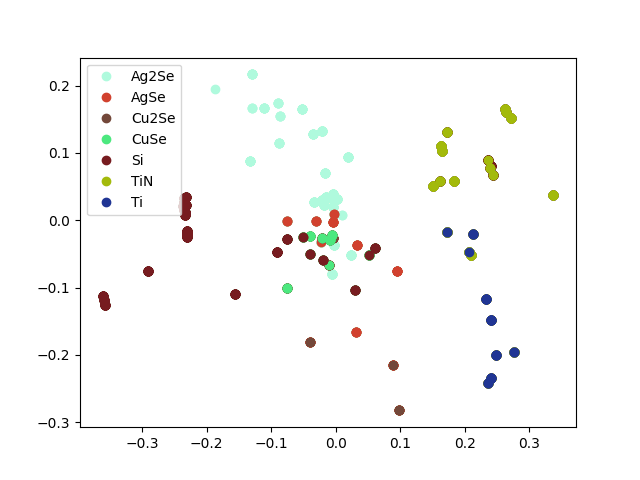
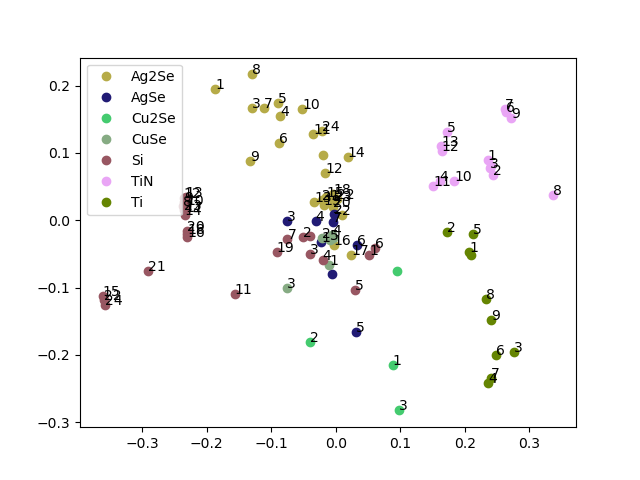
oh no

diff --git a/project/code/GeneralFunctions.py b/project/code/GeneralFunctions.py
@@ -50,7 +50,7 @@ def create_dictionary(labels):
     return d
 
 
-def plot(label_dict, X):
+def plot(labels, X):
     """
 
     :param label_dict: dictonary with index of every label
@@ -58,16 +58,25 @@ def plot(label_dict, X):
     :param color_dict:
     """
 
+    label_dict= create_dictionary(labels)
+
     for k in label_dict:
         col = randomColor()
         label = k
+
+        flag=0
         cont = 0
         for j in label_dict[k]:
-            if cont == 0:
-                plt.plot(X[j:, 0], X[j:, 1], 'o', c=col, label=label)
-                cont = 1
+            if flag == 0:
+                plt.plot(X[j-1, 0], X[j-1, 1], 'o', c=col, label=label)
+                flag=1
             else:
-                plt.plot(X[j:, 0], X[j:, 1], 'o', c=col)
+
+                plt.plot(X[j-1,0], X[j-1,1], 'o', c=col)
+                plt.annotate(str(cont),xy=(X[j-1,0], X[j-1,1]))
+       
+            cont+=1
+
     plt.legend()
     return plt
 
@@ -81,3 +90,4 @@ def randomColor():
 
     color = (r, g, b)
     return color
+

diff --git a/project/code/isomap.py b/project/code/isomap.py
@@ -1,8 +1,9 @@
 from project.code import GeneralFunctions as fun
-from sklearn.manifold import TSNE
+from sklearn.manifold import Isomap
+import numpy as np
 
 
-class Sne():
+class ISOMAP():
 
     def __init__(self):
         self.path_to_file = 'project/resources/'
@@ -11,15 +12,18 @@ class Sne():
 
     def run(self):
         mat, labels = fun.readMatrix(self.path_to_file + self.currentFile)
+        mat = np.array(mat, dtype=np.float64)
+
+        embedding = Isomap(n_components=2)
+
+        X_transformed = embedding.fit_transform(mat)
 
 
+        plt = fun.plot(labels, X_transformed)
 
-        X_embedded = TSNE(n_components=2).fit_transform(mat)
-
-        plt = fun.plot(labels, X_embedded)
-        plt.savefig(self.path_to_results + 't-sne.png')
+        plt.savefig(self.path_to_results + 'isomap.png')
 
 
 def main():
-    sne = Sne()
-    sne.run()
+    iso = ISOMAP()
+    iso.run()

diff --git a/project/code/pca.py b/project/code/pca.py
@@ -1,8 +1,9 @@
+from sklearn.decomposition import PCA
+import numpy as np
 from project.code import GeneralFunctions as fun
-from sklearn.manifold import TSNE
 
 
-class Sne():
+class Pca():
 
     def __init__(self):
         self.path_to_file = 'project/resources/'
@@ -11,15 +12,15 @@ class Sne():
 
     def run(self):
         mat, labels = fun.readMatrix(self.path_to_file + self.currentFile)
+        mat = np.array(mat, dtype=np.float64)
+        pca = PCA(n_components=2)
+        principalComponents = pca.fit_transform(mat)
 
 
+        plt = fun.plot(labels, principalComponents)
 
-        X_embedded = TSNE(n_components=2).fit_transform(mat)
-
-        plt = fun.plot(labels, X_embedded)
-        plt.savefig(self.path_to_results + 't-sne.png')
-
+        plt.savefig(self.path_to_results + 'pca.png')
 
 def main():
-    sne = Sne()
-    sne.run()
+    pca = Pca()
+    pca.run()

diff --git a/project/code/MDS.py b/project/code/MDS.py
@@ -18,9 +18,9 @@ class Mds():
         embedding = MDS(n_components=2, dissimilarity='precomputed', random_state=seed)
         X_transformed = embedding.fit_transform(mat)
 
-        dic = fun.create_dictionary(labels)
 
-        plt = fun.plot(dic, X_transformed)
+
+        plt = fun.plot(labels, X_transformed)
 
         plt.savefig(self.path_to_results + 'mds.png')
 

diff --git a/project/app.py b/project/app.py
@@ -1,4 +1,4 @@
-from project.code import t_sne, MDS
+from project.code import t_sne, MDS,pca,isomap
 
 
 def run(p):
@@ -7,3 +7,7 @@ def run(p):
         t_sne.main()
     if p == 'mds':
         MDS.main()
+    if p=='pca':
+        pca.main()
+    if p=='isomap':
+        isomap.main()
